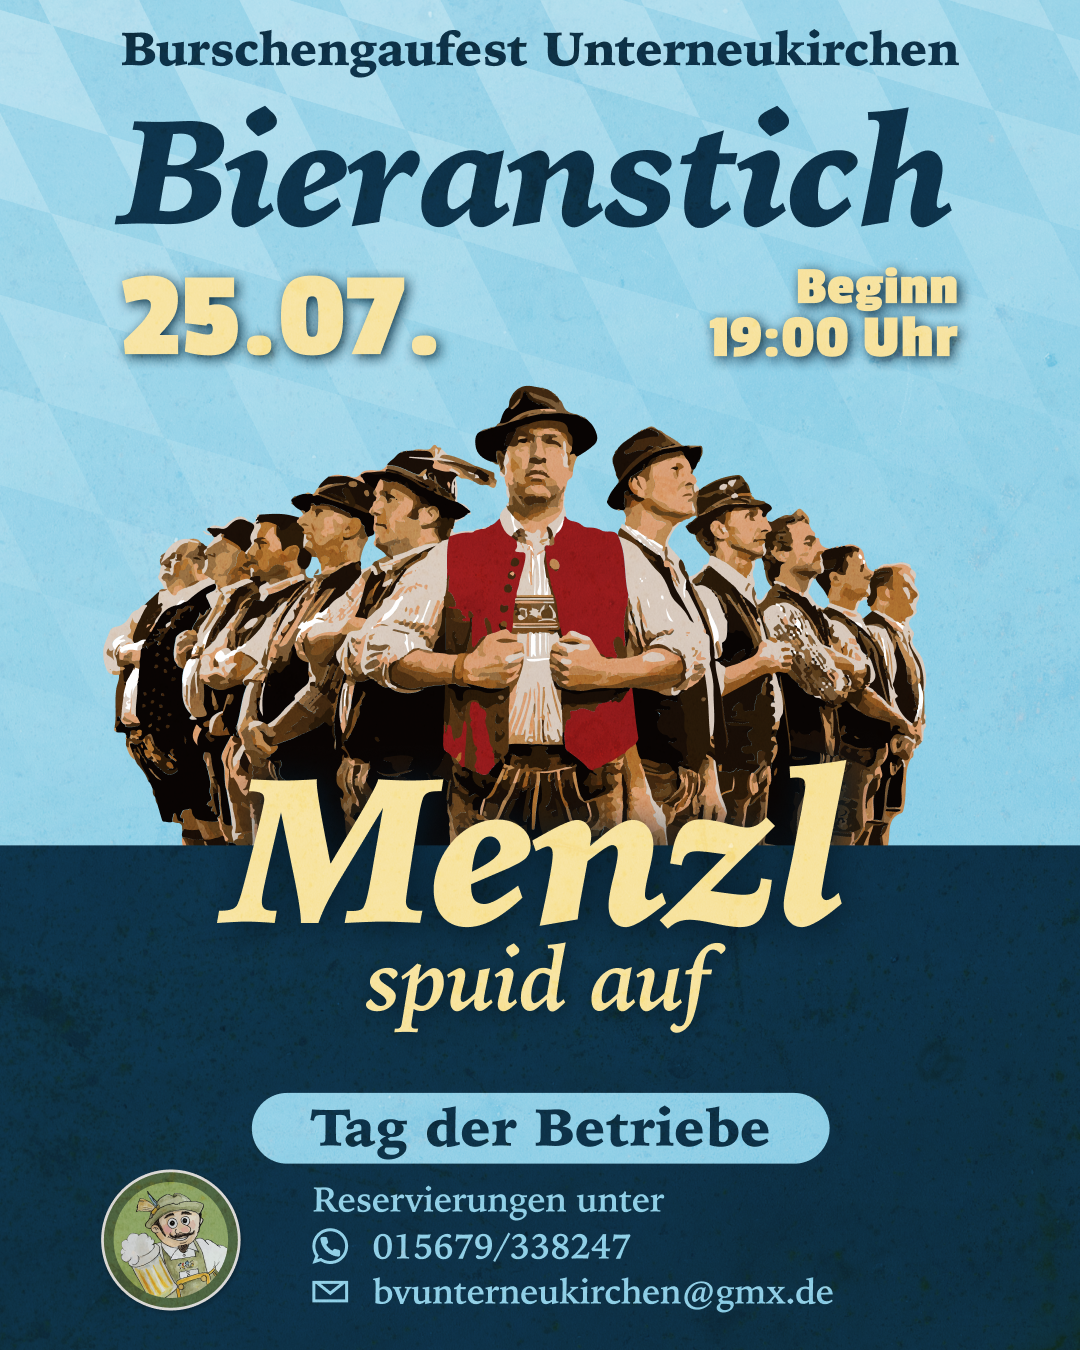
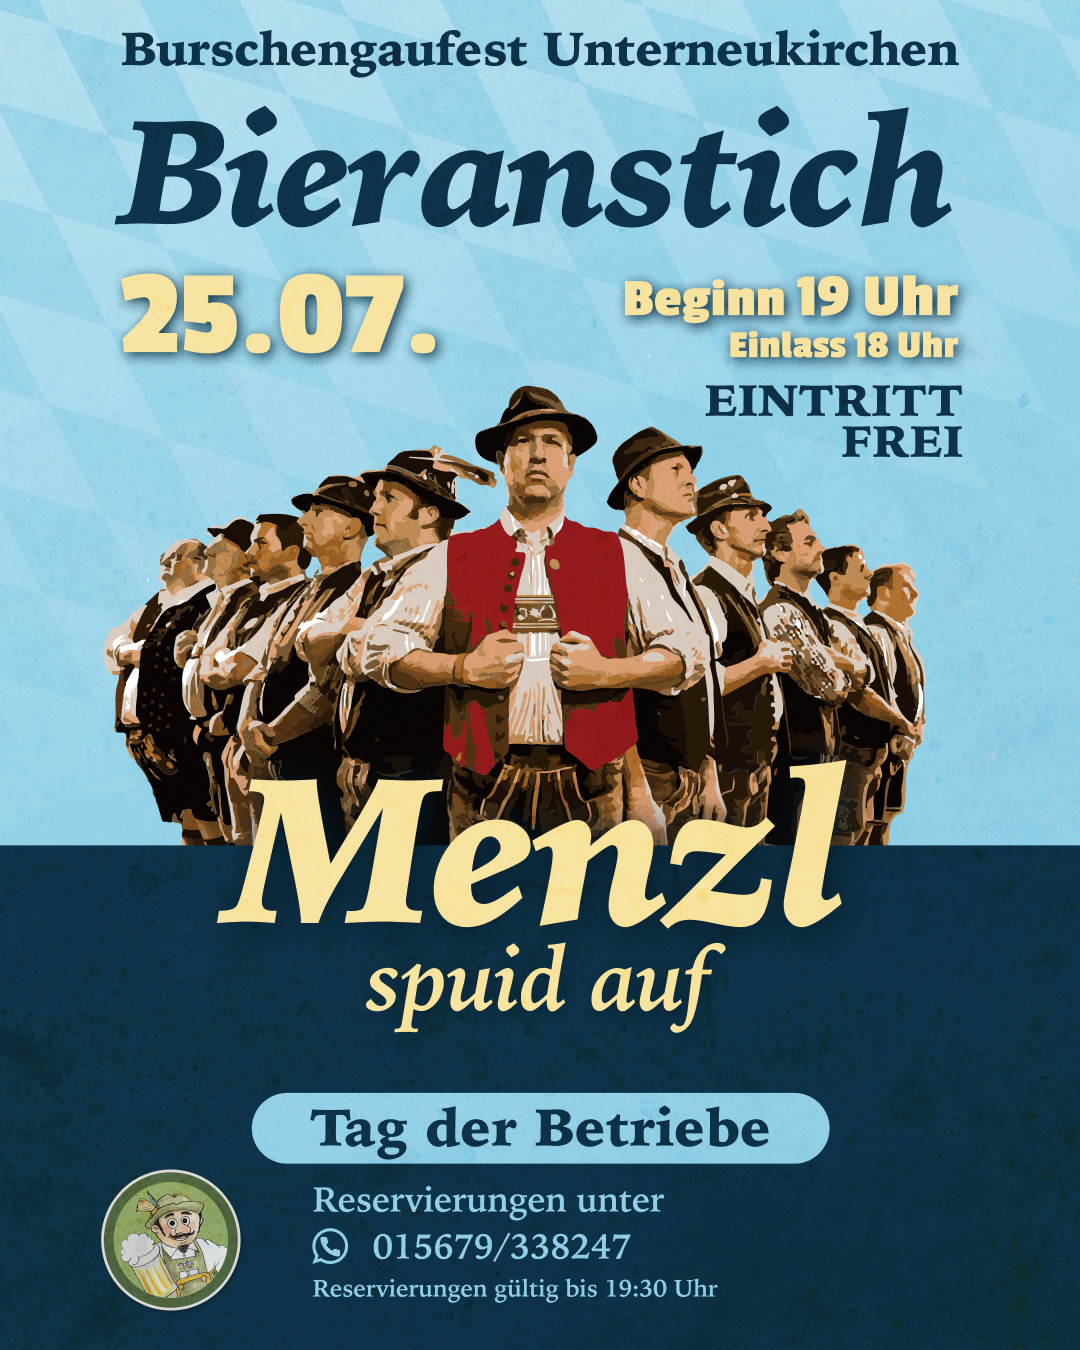
added Anfahrt

diff --git a/index.html b/index.html
@@ -227,6 +227,7 @@
                 <h5 class="text-white"> Zudem freuen wir uns, die regionalen Firmen beim 'Tag der Betriebe' begrüßen zu
                   dürfen!🫱🏼🫲🏼 </h5>
                 <br>
+                <h6 class="text-white"> 🕖 Einlass 18:00 Uhr </h6>
                 <h6 class="text-white"> 🕖 Beginn 19:00 Uhr </h6>
                 <h6 class="text-white"> 🎟 Eintritt Frei! </h6>
                 <h6 class="text-white"> 🍺 Weißbierkarussell </h6>
@@ -262,6 +263,7 @@
                   2024 ned fehlen.🍷🍻</h5>
                 <h5 class="text-white"> Wie gewohnt sorgt as Postamt Trio für beste Bierzeltstimmung!🥳</h5>
                 <br>
+                <h6 class="text-white"> 🕖 Einlass 18:00 Uhr </h6>
                 <h6 class="text-white"> 🕖 Beginn 19:00 Uhr </h6>
                 <h6 class="text-white"> 🍻 Verschiedene Weißbiere aus der Region </h6>
                 <h6 class="text-white"> 🍷 Ausgewählte Weine </h6>
@@ -300,6 +302,9 @@
                   legendäre Burschenparty🥳 </h5>
                 <h5 class="text-white"> Eingeheizt wird euch vom Dj Joe Lennox und für ausreichend kühle Getränke sorgen
                   wir an unserer spektakulären Gaufest-Bar… Ihr dürft gespannt sein😉🥃🍺 </h5>
+
+                <h6 class="text-white"> 🕖 Einlass 20:00 Uhr </h6>
+                <h6 class="text-white"> 🔞 Ab 18 Jahren </h6>
 
                 <h6 class="text-white"> Natürlich gibts auch wieder ein Busspezial <br> mit vergünstigten Eintritt und
                   1x Schnaps/Person
@@ -538,6 +543,8 @@
                 <p> <br></p>
                 <h5 class="text-white"> Für die perfekte Bierzeltstimmung sorgen de Obinger und späda an da Bar spuid
                   "Bast scho" für a mega Partystimmung auf!🎺🪗🥁🥳 </h5>
+                <a href="" data-bs-toggle="modal" data-bs-target="#ZugStellungModal" class="btn bg-dark text-white mt-3"
+                  target="_blank"> zur Zugaufstellung </a>
                 <br>
                 <!-- Zugaufstellung button?
                 <p> <br></p>
@@ -647,15 +654,24 @@
                   class="text-dark">Datenschutzerklärung</a></label>
             </div>
           </div>
-          <div class="col-12">
-            <a href="https://maps.app.goo.gl/9jVeRGfcZwTnWzjP6" class="btn bg-dark text-white mt-3" target="_blank"> zu Google Maps</a>
-            <!-- <a href="setLink" class="btn bg-dark text-white mt-3" target="_blank"> Anfahrt Auto </a> -->
-            <!-- <a href="setLink" class="btn bg-dark text-white mt-3" target="_blank"> Anfahrt Bus </a> -->
+          <div class="row">
+            <div class="col-4">
+              <a href="https://maps.app.goo.gl/9jVeRGfcZwTnWzjP6" class="btn bg-dark text-white mt-3" target="_blank">
+                zu Google Maps</a>
+            </div>
+            <div class="col-4">
+              <a href="" data-bs-toggle="modal" data-bs-target="#AnfahrtPKWModal" class="btn bg-dark text-white mt-3"
+                target="_blank"> Anfahrt PKW </a>
+            </div>
+            <div class="col-4">
+              <a href="" data-bs-toggle="modal" data-bs-target="#AnfahrtBusModal" class="btn bg-dark text-white mt-3"
+                target="_blank"> Anfahrt Bus </a>
+            </div>
           </div>
         </div>
         <div class="col-lg-2 d-none d-lg-block"></div>
-        </div>
       </div>
+    </div>
     </div>
   </section>
 
@@ -782,6 +798,67 @@
     </div>
   </footer>
 
+  <!-- Modal Anfahrt PKW-->
+  <div class="modal fade" id="AnfahrtPKWModal" tabindex="-1" aria-labelledby="AnfahrtPKWModalLabel" aria-hidden="true">
+    <div class="modal-dialog modal-lg">
+      <div class="modal-content">
+        <div class="modal-header">
+          <h5 class="modal-title" id="AnfahrtPKWModalLabel">Anfahrt PKW</h5>
+          <button type="button" class="btn-close" data-bs-dismiss="modal" aria-label="Close"></button>
+        </div>
+        <div class="modal-body">
+          <div class="col">
+            <img src="img/2024-PKW-Anfahrplan.jpg" alt="Anfahrt PKW" loading="lazy" class="img-fluid">
+          </div>
+        </div>
+        <div class="modal-footer">
+          <button type="button" class="btn btn-secondary" data-bs-dismiss="modal">Schließen</button>
+        </div>
+      </div>
+    </div>
+  </div>
+
+  <!-- Modal Anfahrt Bus -->
+  <div class="modal fade" id="AnfahrtBusModal" tabindex="-1" aria-labelledby="AnfahrtBusModalLabel" aria-hidden="true">
+    <div class="modal-dialog modal-lg">
+      <div class="modal-content">
+        <div class="modal-header">
+          <h5 class="modal-title" id="AnfahrtBusModalLabel">Anfahrt Bus</h5>
+          <button type="button" class="btn-close" data-bs-dismiss="modal" aria-label="Close"></button>
+        </div>
+        <div class="modal-body">
+          <div class="col">
+            <img src="img/2024-Busplan_neu.jpg" alt="Anfahrt Bus" loading="lazy" class="img-fluid">
+          </div>
+        </div>
+        <div class="modal-footer">
+          <button type="button" class="btn btn-secondary" data-bs-dismiss="modal">Schließen</button>
+        </div>
+      </div>
+    </div>
+  </div>
+
+  <!-- Modal Zugaufstellung -->
+  <div class="modal fade" id="ZugStellungModal" tabindex="-1" aria-labelledby="ZugStellungModalLabel"
+    aria-hidden="true">
+    <div class="modal-dialog modal-lg">
+      <div class="modal-content">
+        <div class="modal-header">
+          <h5 class="modal-title" id="ZugStellungModalLabel">Zugaufstellung</h5>
+          <button type="button" class="btn-close" data-bs-dismiss="modal" aria-label="Close"></button>
+        </div>
+        <div class="modal-body">
+          <div class="col">
+            <img src="img/2024 Zugaufstellung.jpg" alt="Zugaufstellung" loading="lazy" class="img-fluid">
+          </div>
+        </div>
+        <div class="modal-footer">
+          <button type="button" class="btn btn-secondary" data-bs-dismiss="modal">Schließen</button>
+        </div>
+      </div>
+    </div>
+  </div>
+
   <!-- Modal Tag00 -->
   <div class="modal fade" id="Tag00Modal" tabindex="-1" aria-labelledby="Tag00ModalLabel" aria-hidden="true">
     <div class="modal-dialog modal-lg">
@@ -845,6 +922,7 @@
             <h5 class="text-dark"> Zudem freuen wir uns, die regionalen Firmen beim 'Tag der Betriebe' begrüßen zu
               dürfen!🫱🏼🫲🏼 </h5>
             <br>
+            <h6 class="text-dark"> 🕖 Einlass 18:00 Uhr </h6>
             <h6 class="text-dark"> 🕖 Beginn 19:00 Uhr </h6>
             <h6 class="text-dark"> 🎟 Eintritt Frei! </h6>
             <h6 class="text-dark"> 🍺 Weißbierkarussell </h6>
@@ -879,6 +957,7 @@
               ned fehlen.🍷🍻</h5>
             <h5 class="text-dark"> Wie gewohnt sorgt as Postamt Trio für beste Bierzeltstimmung!🥳</h5>
             <br>
+            <h6 class="text-dark"> 🕖 Einlass 18:00 Uhr </h6>
             <h6 class="text-dark"> 🕖 Beginn 19:00 Uhr </h6>
             <h6 class="text-dark"> 🍻 Verschiedene Weißbiere aus der Region </h6>
             <h6 class="text-dark"> 🍷 Ausgewählte Weine </h6>
@@ -914,6 +993,9 @@
               Burschenparty🥳 </h5>
             <h5 class="text-dark"> Eingeheizt wird euch vom Dj Joe Lennox und für ausreichend kühle Getränke sorgen wir
               an unserer spektakulären Gaufest-Bar… Ihr dürft gespannt sein😉🥃🍺 </h5>
+
+            <h6 class="text-dark"> 🕖 Einlass 20:00 Uhr </h6>
+            <h6 class="text-dark"> 🔞 Ab 18 Jahren </h6>
 
             <h6 class="text-dark"> Natürlich gibts auch wieder ein Busspezial <br> mit vergünstigten Eintritt und 1x
               Schnaps/Person
@@ -1140,6 +1222,8 @@
             <p> <br></p>
             <h5 class="text-dark"> Für die perfekte Bierzeltstimmung sorgen de Obinger und späda an da Bar spuid "Bast
               scho" für a mega Partystimmung auf!🎺🪗🥁🥳 </h5>
+            <a href="" data-bs-toggle="modal" data-bs-target="#ZugStellungModal" class="btn bg-dark text-white mt-3"
+              target="_blank"> zur Zugaufstellung </a>
           </div>
         </div>
         <div class="modal-footer">
